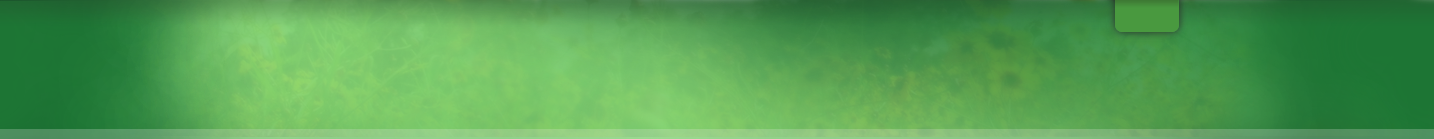
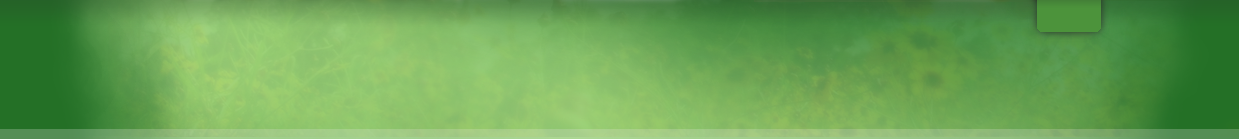
updated weed css/graphics

diff --git a/css/weed.css b/css/weed.css
@@ -357,7 +357,7 @@ span.zapf-checkmark {
 ---------------------------------------------------------------------------*/
 
 html {
-  background-color: #114021;
+  background-color: #13431B;
 }
 
 #header-group-wrapper {
@@ -374,6 +374,7 @@ html {
   background: transparent url("../images/eesc/weed/footer_sides.png") repeat-x scroll 0 15px;
   height: 152px;
   margin: auto;
+  border-bottom: 1px solid #619E6A;
 }
 
 #footer-message-wrapper {
